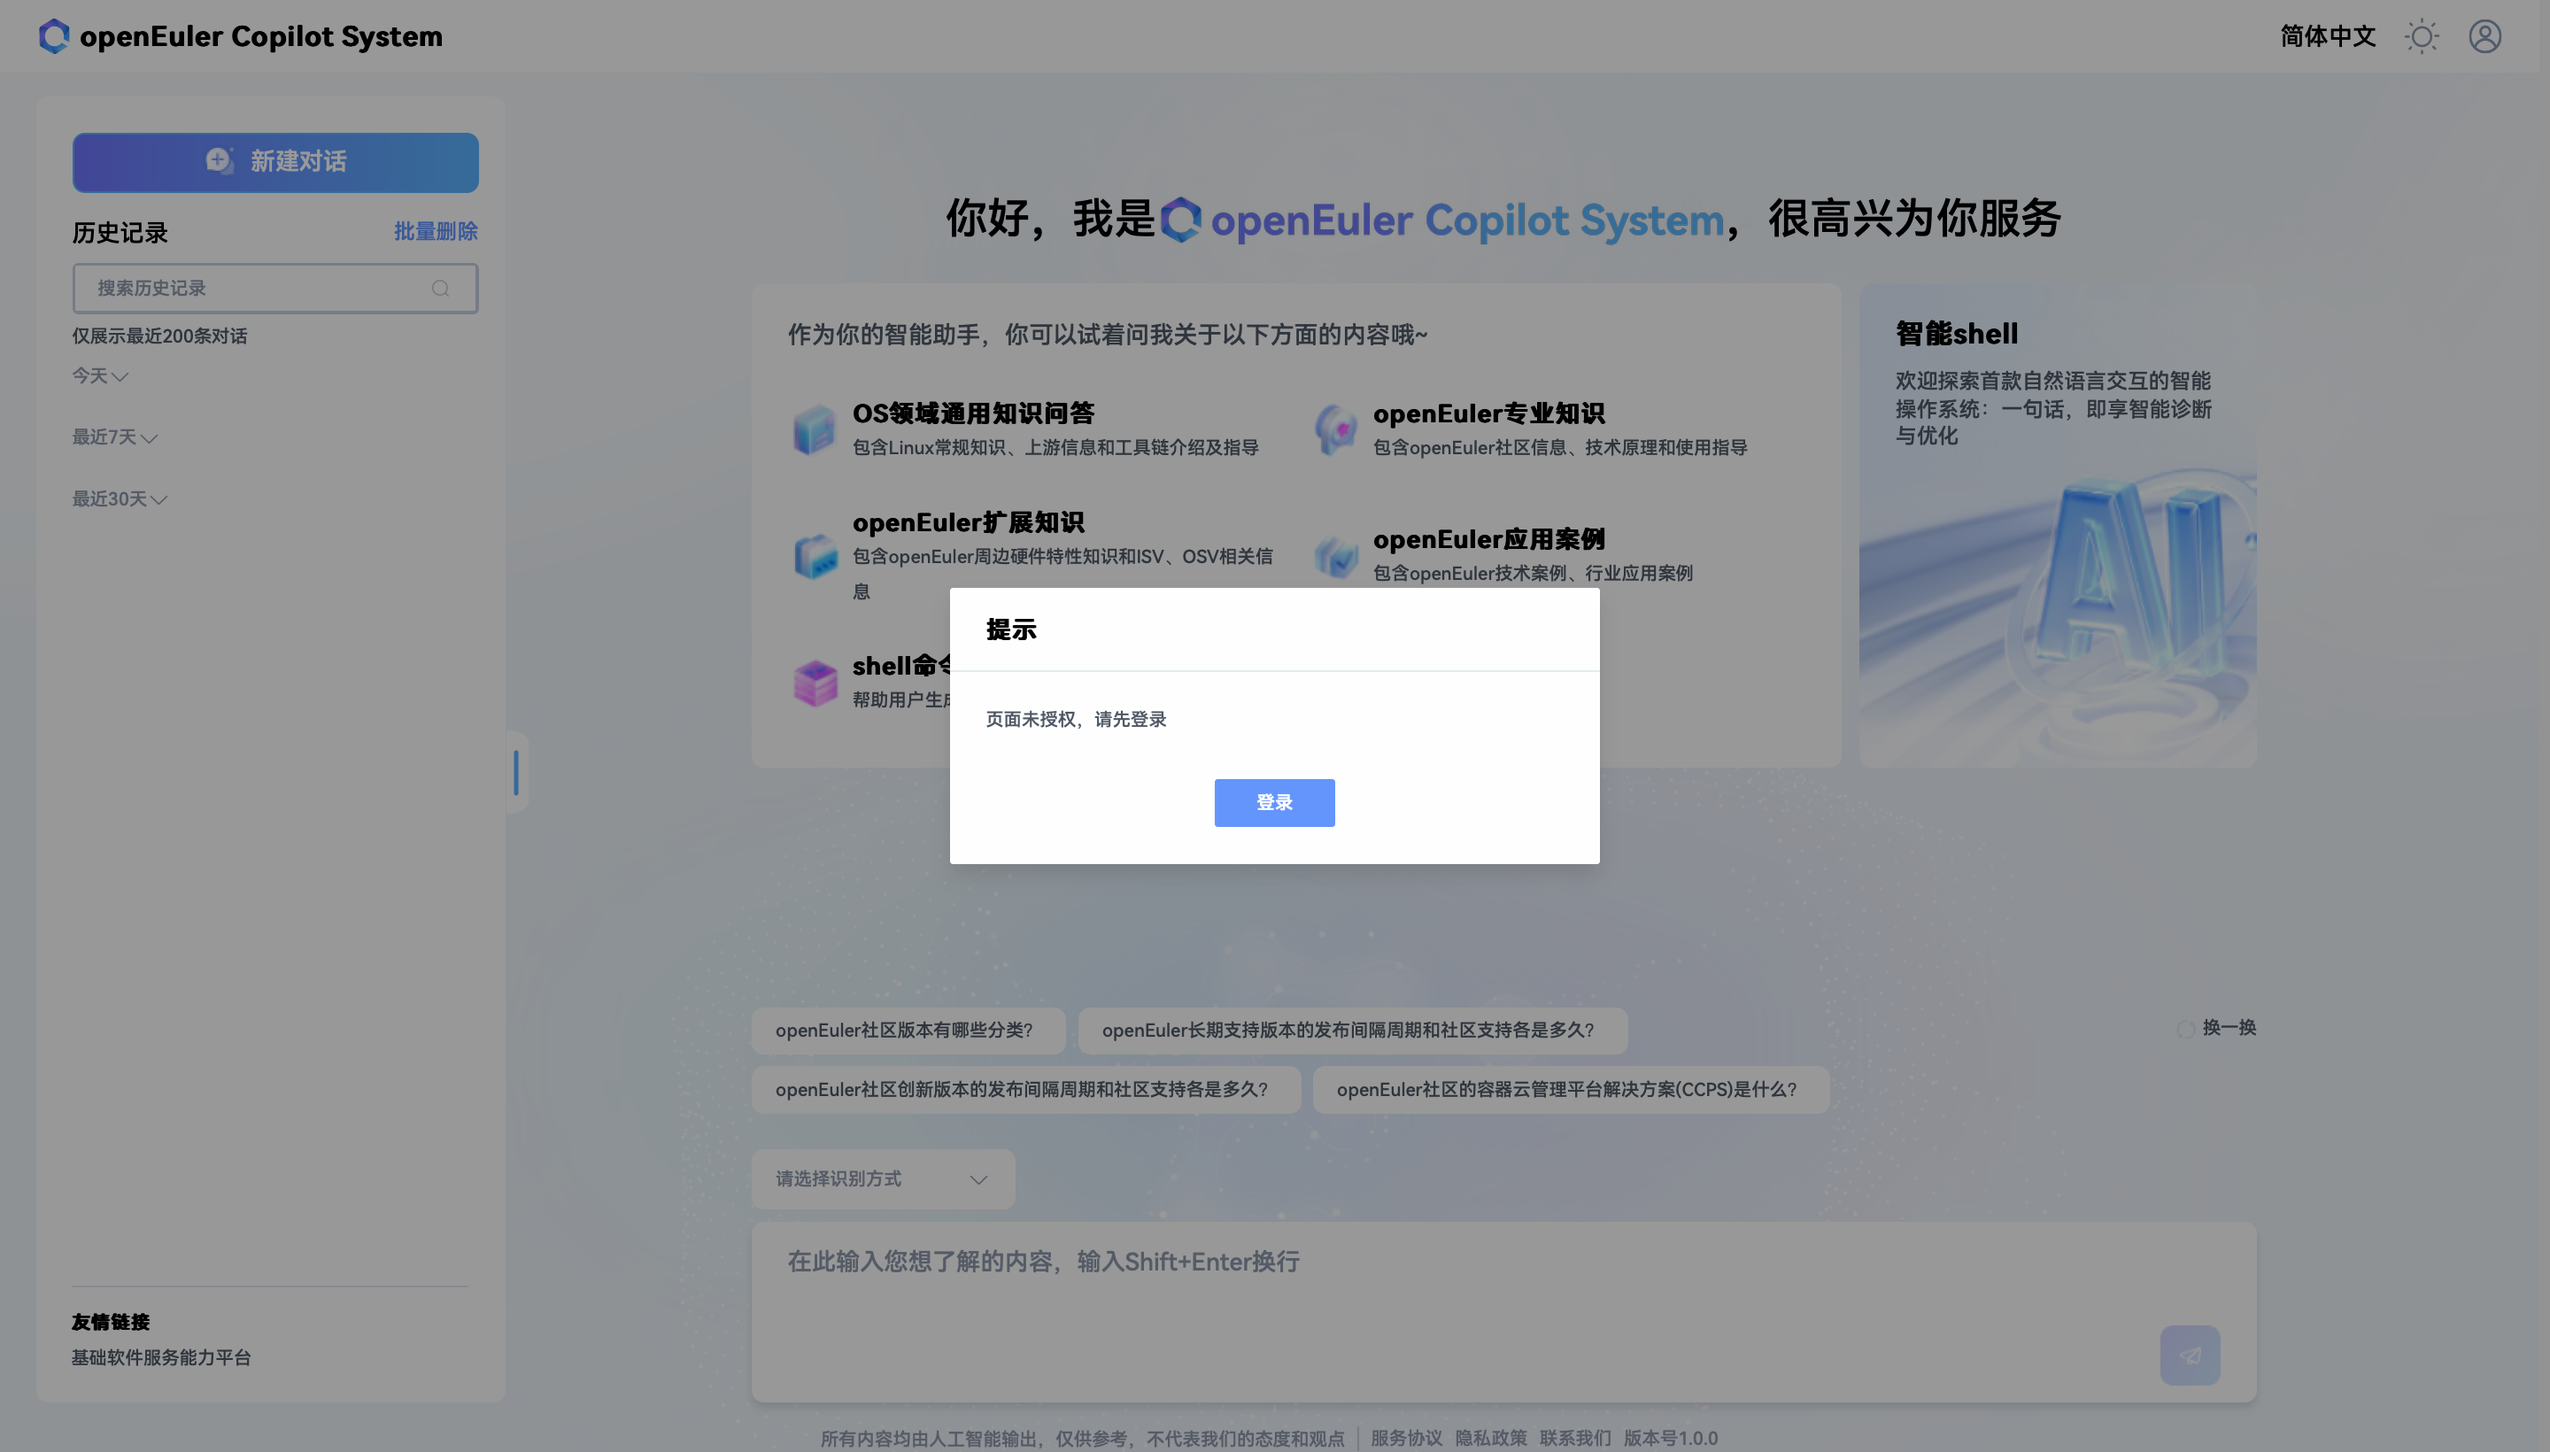
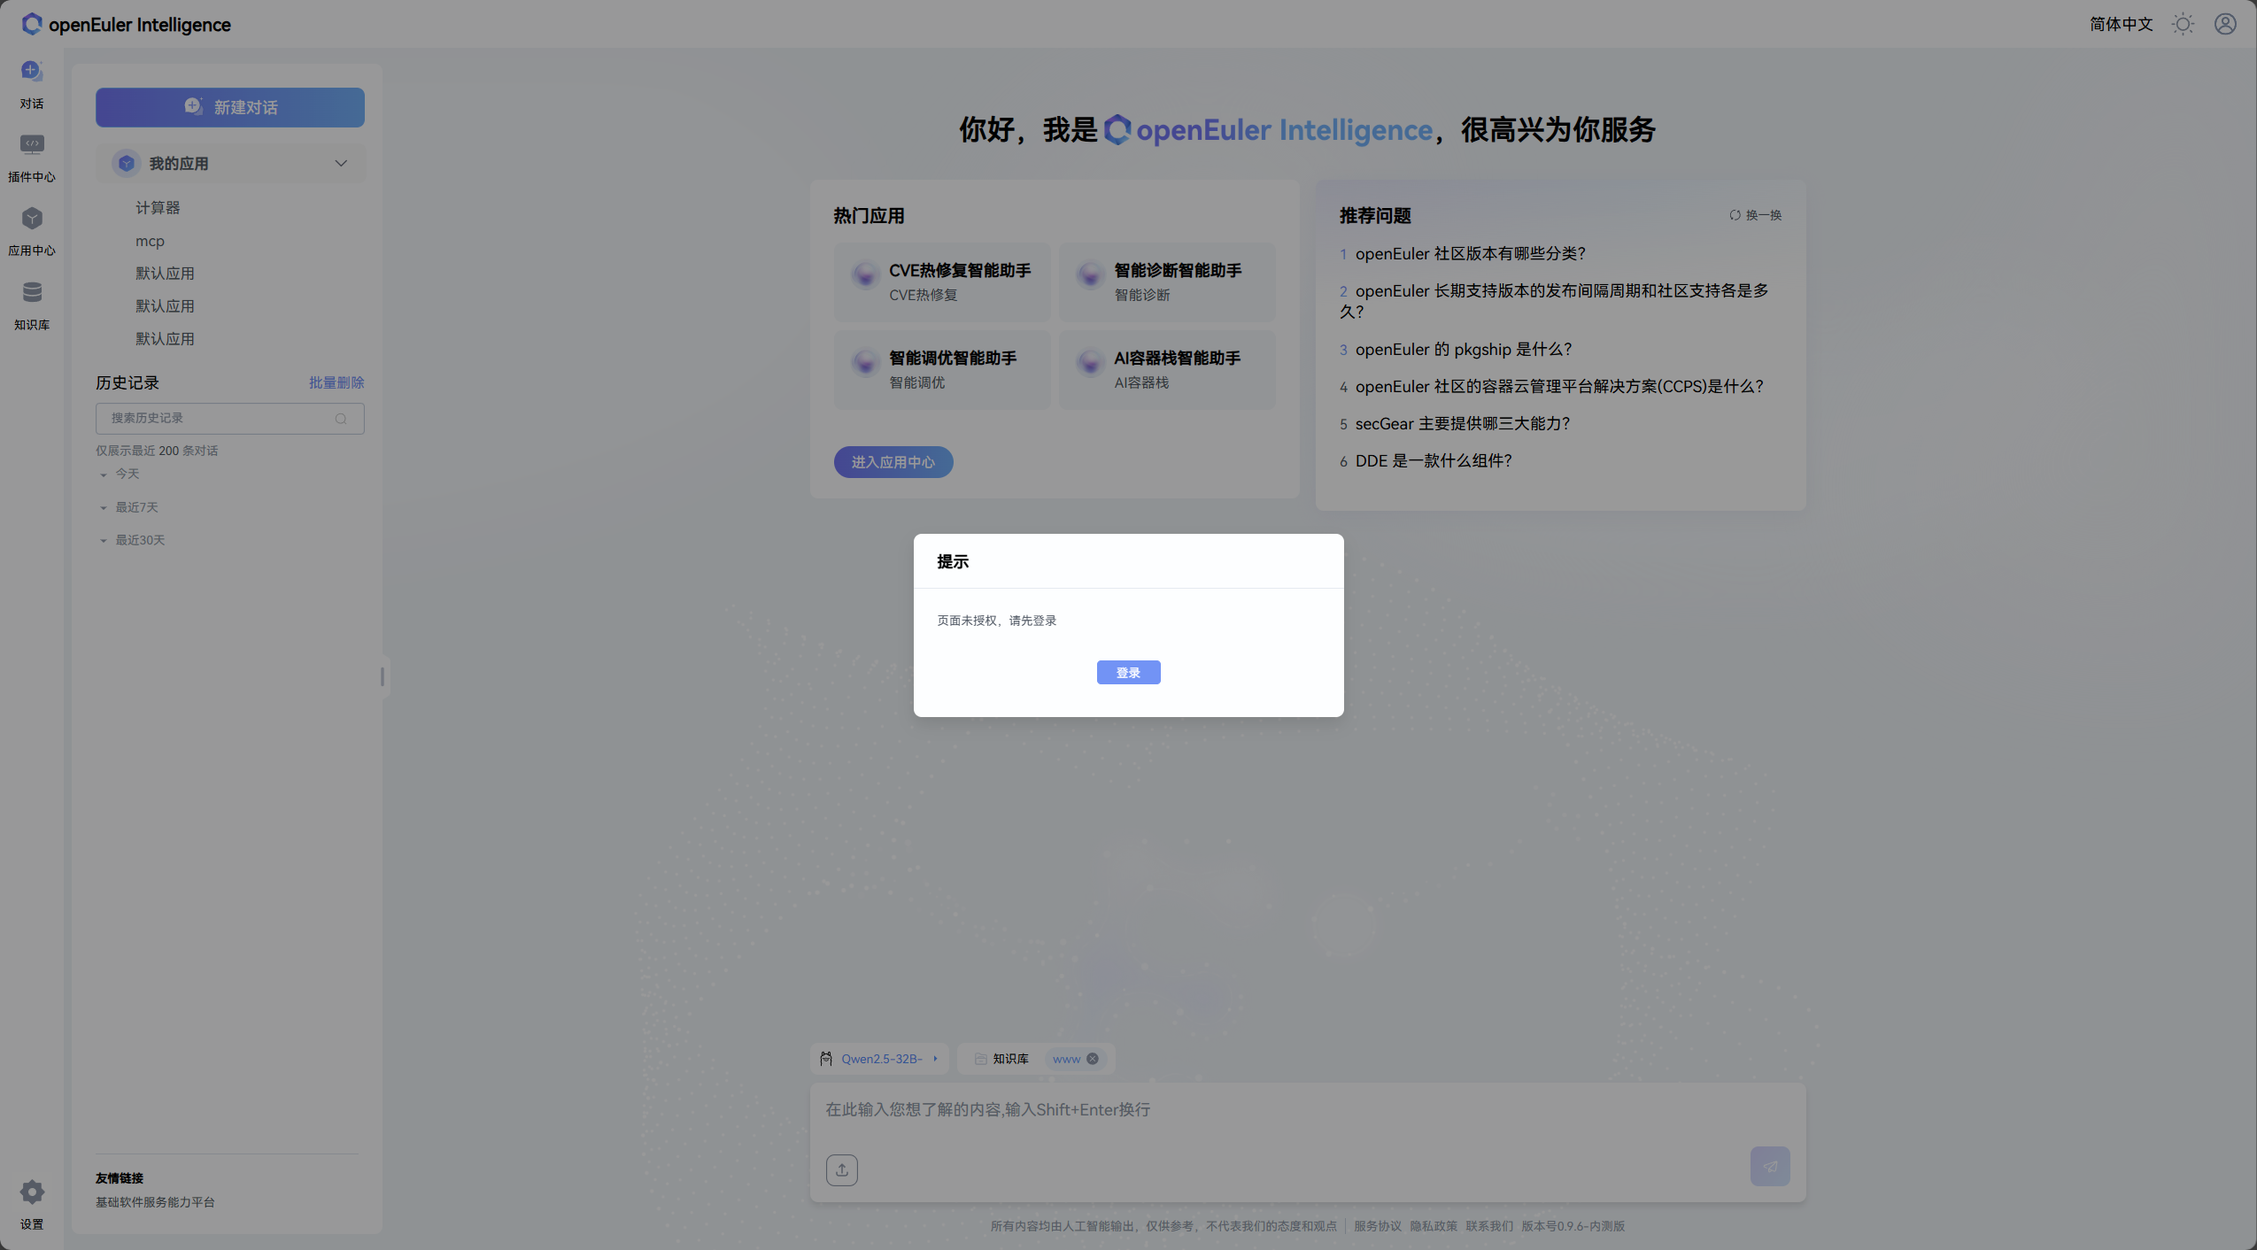
更新智能问答使用文档

diff --git a/docs/zh/openEuler_intelligence/intelligent_assistant/quick_start/smart_web/user_guide/introduction.md b/docs/zh/openEuler_intelligence/intelligent_assistant/quick_start/smart_web/user_guide/introduction.md
@@ -2,11 +2,11 @@
 
 ## 概述
 
-本文档介绍了 EulerCopilot 的使用方法，对 EulerCopilot 线上服务的 Web 界面的各项功能做了详细介绍，同时提供了常见的问题解答，详细请参考对应手册。
+本文档介绍了 openEuler intelligence 的使用方法，对 openEuler intelligence 线上服务的 Web 界面的各项功能做了详细介绍，同时提供了常见的问题解答，详细请参考对应手册。
 
 ## 读者对象
 
-本文档主要适用于 EulerCopilot 的使用人员。使用人员必须具备以下经验和技能：
+本文档主要适用于 openEuler intelligence 的使用人员。使用人员必须具备以下经验和技能：
 
 - 熟悉 openEuler 操作系统相关情况。
 - 有 AI 对话使用经验。
@@ -15,6 +15,7 @@
 
 | 文档版本 | 发布日期     | 修改说明         |
 |--------|------------|----------------|
+|  04            |   2025-06-06|更新0.9.6版本介绍|
 | 03     | 2024-09-19 | 更新新版界面。 |
 | 02     | 2024-05-13 | 优化智能对话操作指引。 |
 | 01     | 2024-01-28 | 第一次正式发布。 |
@@ -30,39 +31,40 @@
 - 您根据分析记录所采取的任何行为均应符合法律法规的要求，并由您自行承担风险。
 - 未经所有者授权，任何个人或组织均不得使用应用程序及相关分析记录从事任何活动。openEuler 社区不对由此造成的一切后果负责，亦不承担任何法律责任。必要时，将追究其法律责任。
 
-### EulerCopilot 简介
+### openEuler intelligence 简介
 
-EulerCopilot 是一个基于 openEuler 操作系统的人工智能助手，可以帮助用户解决各种技术问题，提供技术支持和咨询服务。它使用了最先进的自然语言处理技术和机器学习算法，能够理解用户的问题并提供相应的解决方案。
+openEuler intelligence 是基于 openEuler 操作系统的智能化平台，它集成了语义接口注册、工作流编排&调度和知识库等功能，既可以为用户提供一些基础的智能化服务，例如智能问答、智能客服助手等，也允许用户接入本地的自定义接口，提供高阶的智能化服务，例如智能运维、智能调优等。
 
 ### 场景内容
 
-1. OS 领域通用知识：EulerCopilot 可以咨询 Linux 常规知识、上游信息和工具链介绍和指导。
-2. openEuler 专业知识：EulerCopilot 可以咨询 openEuler 社区信息、技术原理和使用指导。
-3. openEuler 扩展知识：EulerCopilot 可以咨询 openEuler 周边硬件特性知识和ISV、OSV相关信息。
-4. openEuler 应用案例：EulerCopilot 可以提供 openEuler 技术案例、行业应用案例。
-5. shell 命令生成：EulerCopilot 可以帮助用户生成单条 shell 命令或者复杂命令。
+- 智能助手：允许用户使用openEuler intelligence的知识库功能构建本地化的智能助手，并允许用户通过智能评估流水线不断优化知识库质量，提升智能助手使用体验。
+- 智能客服：允许用户使用openEuler intelligence的知识库中问答对解析的功能+工作流编排的能力构建属于自己的智能客服，并允许用户通过调整工作流中大模型的prompt优化智能客服使用体验。
+- 智能运维&智能调优：允许用户使用openEuler intelligence的语义接口注册和工作流编排调度能力，将本地运维&调优相关的传统api注册至openEuler intelligence中，并通过手动编排工作流的形式，以自然语言交互的形式向外提供服务，增强一般运维的使用体验。
 
-总之，EulerCopilot 可以应用于各种场景，帮助用户提高工作效率和了解 Linux、openEuler 等的相关知识。
+总之，openEuler intelligence 可以应用于多种场景，帮助公司&开发者开发自定义的智能化服务，降低研发成本，提升服务使用体验。
 
 ### 访问和使用
 
-EulerCopilot 通过网址访问 Web 网页进行使用。账号注册与登录请参考[注册与登录](./registration_and_login.md)。使用方法请参考[智能问答使用指南](./qa_guide.md)。
+openEuler intelligence 通过网址访问 Web 网页进行使用。账号注册与登录请参考[注册与登录](./registration_and_login.md)。使用方法请参考[智能问答使用指南](./qa_guide.md)。
 
 ### 界面说明
 
 #### 界面分区
 
-EulerCopilot 界面主要由如图 1 所示的区域组成，各个区域的作用如表 1 所示。
+openEuler intelligence 界面主要由如图 1 所示的区域组成，各个区域的作用如表 1 所示。
 
-- 图 1 EulerCopilot 界面
+- 图 1 openEuler intelligence 界面
 
 ![Copilot 界面](./pictures/main-page-sections.png)
 
-- 表 1 EulerCopilot 首页界面分区说明
+- 表 1 openEuler intelligence 首页界面分区说明
 
 | 区域 | 名称       | 说明                                                            |
 |-----|------------|----------------------------------------------------------------|
-| 1   | 设置管理区        | 提供账号登录和退出操作入口和明亮/黑暗模式切换功能                |
-| 2   | 对话管理区       | 用于用户新建对话、对话历史记录管理和对话历史记录批量删除操作        |
-| 3   | 对话区           | 用于用户和 EulerCopilot 的对话聊天               |
-| 4   | 服务协议和隐私政策区 | 提供查看服务协议和隐私政策入口                               |
+| 1   | 切换功能区  | 有四个部分对话 插件中心 应用中心 知识库分别对应创建对话  注册语义接口&mcp服务 创建智能工作流（agent）应用 知识库管理等功能 |
+| 2   | 设置模型配置按钮 | 用户可以在这里自定义用于交互的大模型配置 |
+| 3   | top 5使用的app区 | 展示用户最近使用的top5应用 |
+| 4   | 会话记录管理区 | 提供查看服务协议和隐私政策入口                               |
+|5|会话历史记录区|用户可以在这里管理自己产生的对话记录|
+|6|用户交互区|用户可以在这里切换对话使用的模型 知识库 和输入query进行交互|
+|7|风格切换区|用户可以在这里将页面风格从明亮切换为黑暗|

diff --git a/docs/zh/openEuler_intelligence/intelligent_assistant/quick_start/smart_web/user_guide/registration_and_login.md b/docs/zh/openEuler_intelligence/intelligent_assistant/quick_start/smart_web/user_guide/registration_and_login.md
@@ -1,6 +1,6 @@
-# 登录 EulerCopilot
+# 登录 openEuler intelligence
 
-本章节介绍如何登录已部署的 EulerCopilot 网页端的具体步骤。
+本章节介绍如何登录已部署的 openEuler intelligence 网页端的具体步骤。
 
 ## 浏览器要求
 
@@ -16,21 +16,21 @@
 
 ## 操作步骤
 
-**步骤1** 打开本地 PC 机的浏览器，在地址栏输入部署指南中配置好的域名，按下 `Enter`。在未登录状态，进入 EulerCopilot，会出现登录提示弹出框，如图 1 所示。
+**步骤1** 打开本地 PC 机的浏览器，在地址栏输入部署指南中配置好的域名，按下 `Enter`。在未登录状态，进入 openEuler intelligence，会出现登录提示弹出框，如图 1 所示。
 
 - 图 1 未登录
 
 ![未登录](./pictures/login-popup.png)
 
-**步骤2** 登录 EulerCopilot（已注册账号）。
+**步骤2** 登录 openEuler intelligence（已注册账号）。
 
 打开登录界面，如图 2 所示。
 
-- 图 2 登录 EulerCopilot
+- 图 2 登录 openEuler intelligence
 
-![登录 EulerCopilot](./pictures/authhub-login.png)
+![登录 openEuler intelligence](./pictures/authhub-login.png)
 
-## 注册 EulerCopilot 账号
+## 注册 openEuler intelligence 账号
 
 **步骤1**  在登录信息输入框右下角单击“立即注册”，如图 3 所示。
 
